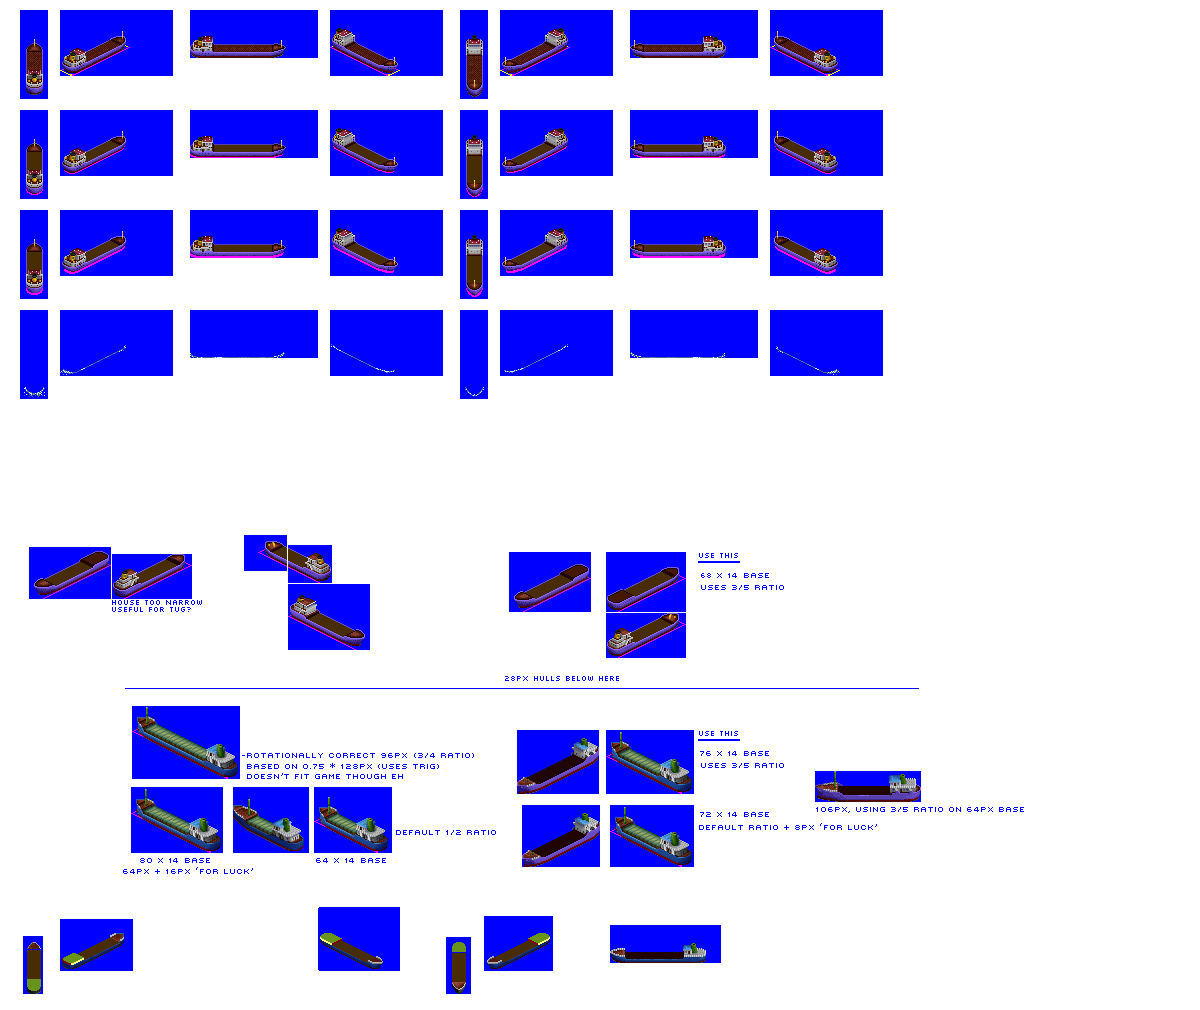
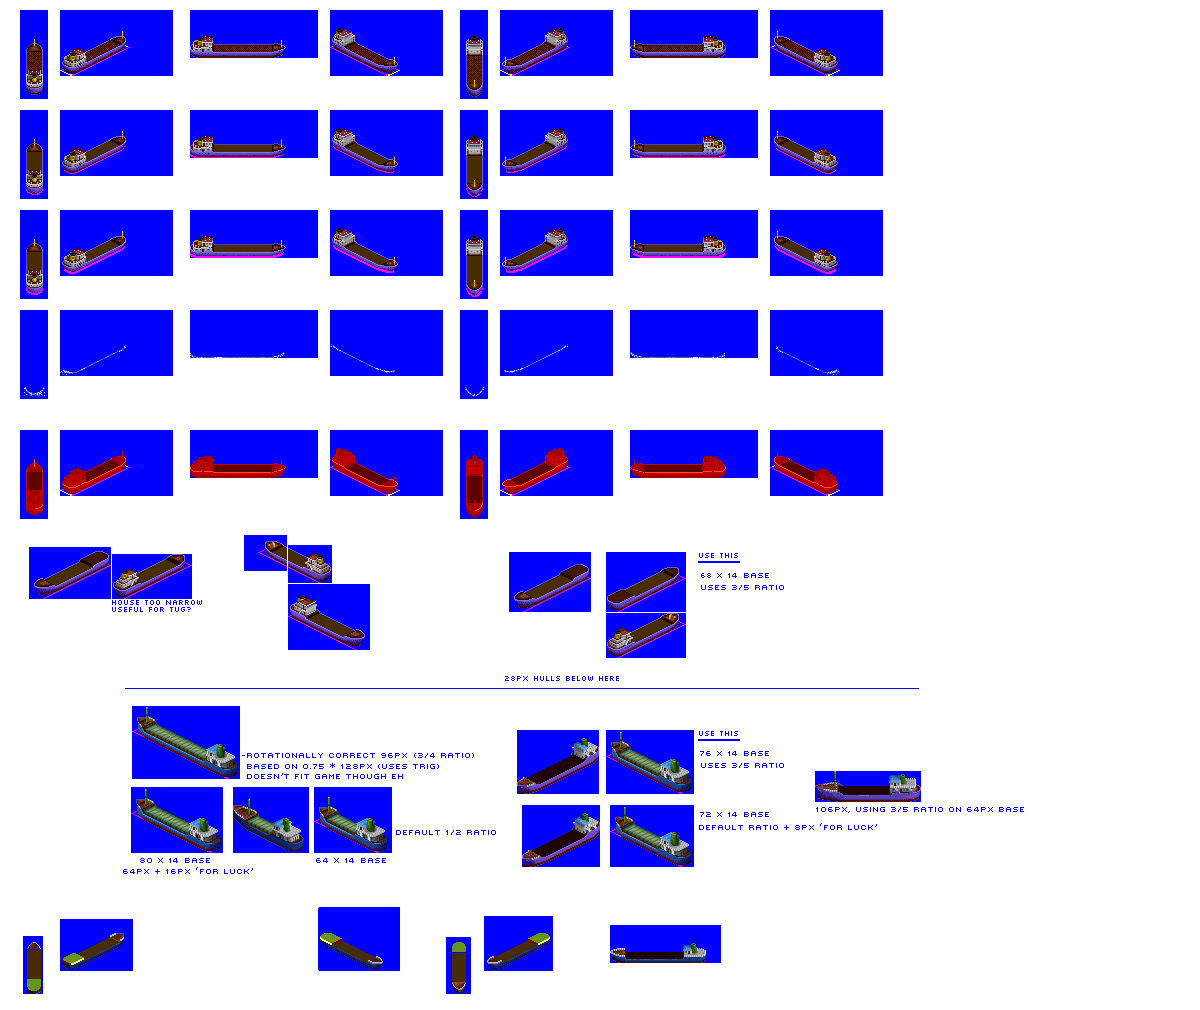
Change: sprites complete for gen 3D reefer

Changed region(s): [[0.0, 0.399, 0.74, 0.5218]]

diff --git a/src/vehicles/reefers.py b/src/vehicles/reefers.py
@@ -31,7 +31,7 @@ def main():
         subtype="D",
         hull="ShipHouseRear",
         effect_type="EFFECT_SPRITE_DIESEL",
-        sprites_complete=False,
+        sprites_complete=True,
     )
 
     ship = Reefer(
